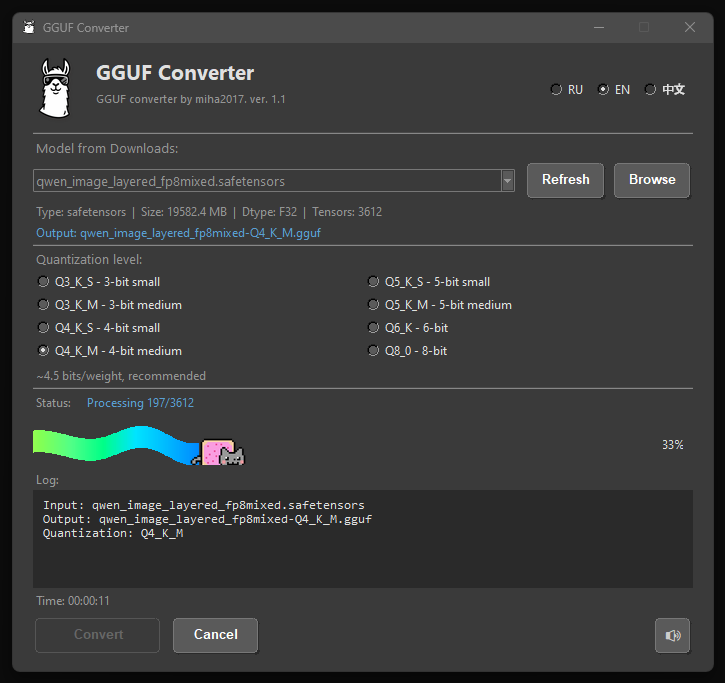
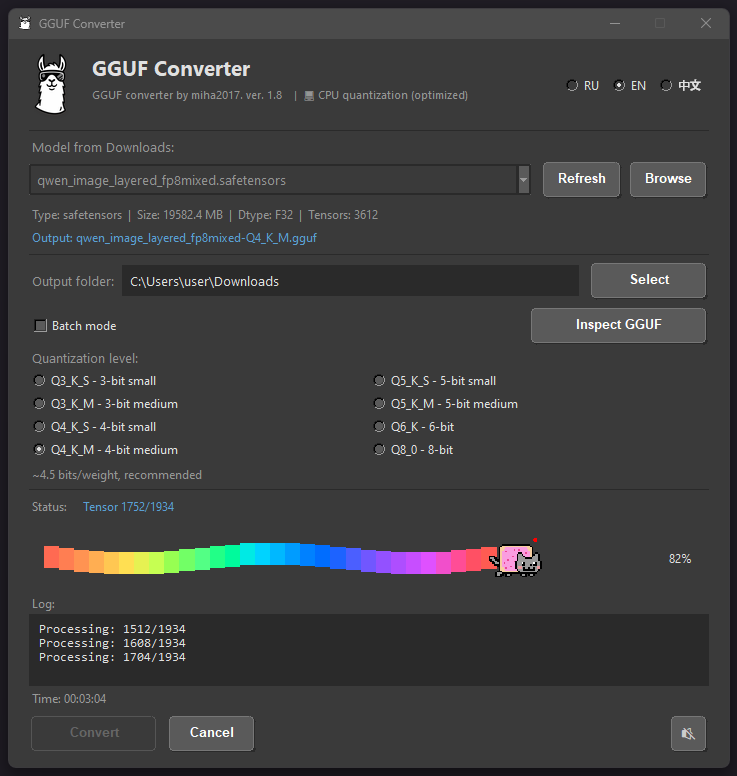
Fix model info display, increase window height +8px

diff --git a/gguf_converter.py b/gguf_converter.py
@@ -122,7 +122,7 @@ from ui_widgets import make_round_button, make_icon_button, show_dark_dialog
 from quantizer import (
     QuantType, ModelInfo, ConversionResult,
     ModelAnalyzer, GGUFConverter, QUANT_CONFIGS,
-    extract_model_name
+    extract_model_name, _extract_name_from_config
 )
 
 # Check for single instance (Windows only)
@@ -311,7 +311,7 @@ class ConverterUI:
         self.root.title(self._t("window_title"))
         self._set_dark_titlebar()
         self.root.withdraw()
-        self.root.geometry("720x720")
+        self.root.geometry("720x728")
         self.root.resizable(False, False)
         
         # Set window icon
@@ -782,12 +782,12 @@ class ConverterUI:
         self.browse_btn = make_round_button(btn_frame, self._t("browse"), self._browse_file, bg_color=COLORS['bg'])
         self.browse_btn.pack(side=tk.LEFT)
         
-        self.info_label = tk.Label(main, text="", font=("Segoe UI", 9), fg=COLORS['fg_dim'], bg=COLORS['bg'], anchor=tk.W)
-        self.info_label.pack(fill=tk.X)
-        self.output_label = tk.Label(main, text="", font=("Segoe UI", 9), fg=COLORS['accent'], bg=COLORS['bg'], anchor=tk.W)
-        self.output_label.pack(fill=tk.X)
+        self.info_label = tk.Label(main, text=" ", font=("Segoe UI", 9), fg=COLORS['fg_dim'], bg=COLORS['bg'], anchor=tk.W, height=1)
+        self.info_label.pack(fill=tk.X, pady=(4, 0))
+        self.output_label = tk.Label(main, text=" ", font=("Segoe UI", 9), fg=COLORS['accent'], bg=COLORS['bg'], anchor=tk.W, height=1)
+        self.output_label.pack(fill=tk.X, pady=(2, 0))
         
-        tk.Frame(main, height=1, bg='#2a2a2a').pack(fill=tk.X, pady=4)
+        tk.Frame(main, height=1, bg='#2a2a2a').pack(fill=tk.X, pady=(6, 4))
         
         # Output folder selection
         output_frame = tk.Frame(main, bg=COLORS['bg'])
@@ -1161,28 +1161,34 @@ class ConverterUI:
             self._analyze_model(DOWNLOADS_FOLDER / name)
     
     def _analyze_model(self, path: Path):
-        self._log(f"{self._t('analyzing')}: {path.name}")
-        self.model_info = ModelAnalyzer.analyze(path)
-        
-        if self.model_info.model_name:
-            config_name = _extract_name_from_config(path)
-            if config_name and self.model_info.model_name == config_name:
-                self._log(f"{self._t('model_name_from_config')}: {self.model_info.model_name}")
-            elif self.model_info.model_name != path.stem and self.model_info.model_name != path.parent.name:
-                self._log(f"{self._t('model_name_from_metadata')}: {self.model_info.model_name}")
-            elif self.model_info.model_name == path.parent.name:
-                self._log(f"{self._t('model_name_from_folder')}: {self.model_info.model_name}")
-            else:
-                self._log(f"{self._t('model_name_from_filename')}: {self.model_info.model_name}")
-        
-        info = f"{self._t('type')}: {self.model_info.model_type}"
-        info += f"  |  {self._t('size')}: {self.model_info.size_bytes / (1024*1024):.1f} MB"
-        if self.model_info.dtype:
-            info += f"  |  {self._t('dtype')}: {self.model_info.dtype}"
-        if self.model_info.num_tensors:
-            info += f"  |  {self._t('tensors')}: {self.model_info.num_tensors}"
-        self.info_label.config(text=info)
-        self._update_output_preview()
+        log_to_file(f"_analyze_model called with path: {path}")
+        try:
+            self._log(f"{self._t('analyzing')}: {path.name}")
+            self.model_info = ModelAnalyzer.analyze(path)
+            log_to_file(f"model_info: type={self.model_info.model_type}, size={self.model_info.size_bytes}, dtype={self.model_info.dtype}, tensors={self.model_info.num_tensors}, model_name={self.model_info.model_name}")
+            
+            if self.model_info.model_name:
+                config_name = _extract_name_from_config(path)
+                if config_name and self.model_info.model_name == config_name:
+                    self._log(f"{self._t('model_name_from_config')}: {self.model_info.model_name}")
+                elif self.model_info.model_name != path.stem and self.model_info.model_name != path.parent.name:
+                    self._log(f"{self._t('model_name_from_metadata')}: {self.model_info.model_name}")
+                elif self.model_info.model_name == path.parent.name:
+                    self._log(f"{self._t('model_name_from_folder')}: {self.model_info.model_name}")
+                else:
+                    self._log(f"{self._t('model_name_from_filename')}: {self.model_info.model_name}")
+            
+            info = f"{self._t('type')}: {self.model_info.model_type}"
+            info += f"  |  {self._t('size')}: {self.model_info.size_bytes / (1024*1024):.1f} MB"
+            if self.model_info.dtype:
+                info += f"  |  {self._t('dtype')}: {self.model_info.dtype}"
+            if self.model_info.num_tensors:
+                info += f"  |  {self._t('tensors')}: {self.model_info.num_tensors}"
+            log_to_file(f"Setting info_label text: {info}")
+            self.info_label.config(text=info)
+            self._update_output_preview()
+        except Exception as e:
+            log_exception(f"Error in _analyze_model: {e}")
     
     def _update_output_preview(self):
         if self.model_info:
@@ -1199,8 +1205,16 @@ class ConverterUI:
         self._update_output_preview()
     
     def _log(self, msg):
-        """Queue log message for async UI update."""
-        self.ui_queue.put(('log', msg))
+        """Log message to UI. Direct update when queue not active, queued during conversion."""
+        if self.queue_processing:
+            # During conversion, use queue for async updates
+            self.ui_queue.put(('log', msg))
+        else:
+            # Outside conversion, update directly
+            self.log_text.config(state=tk.NORMAL)
+            self.log_text.insert(tk.END, msg + "\n")
+            self.log_text.see(tk.END)
+            self.log_text.config(state=tk.DISABLED)
     
     def _update_progress(self, val, status):
         """Queue progress update for async UI update."""

diff --git a/README.md b/README.md
@@ -1,7 +1,7 @@
 # GGUF Converter
 
 <p align="center">
-  <img src="images/logoLLM.png" alt="GGUF Converter Logo" width="200">
+  <img src="images/logoLLM.png" alt="GGUF Converter Logo" width="160">
 </p>
 
 <p align="center">

diff --git a/README_RU.md b/README_RU.md
@@ -1,7 +1,7 @@
 # GGUF Converter
 
 <p align="center">
-  <img src="images/logoLLM.png" alt="GGUF Converter Logo" width="200">
+  <img src="images/logoLLM.png" alt="GGUF Converter Logo" width="160">
 </p>
 
 <p align="center">
